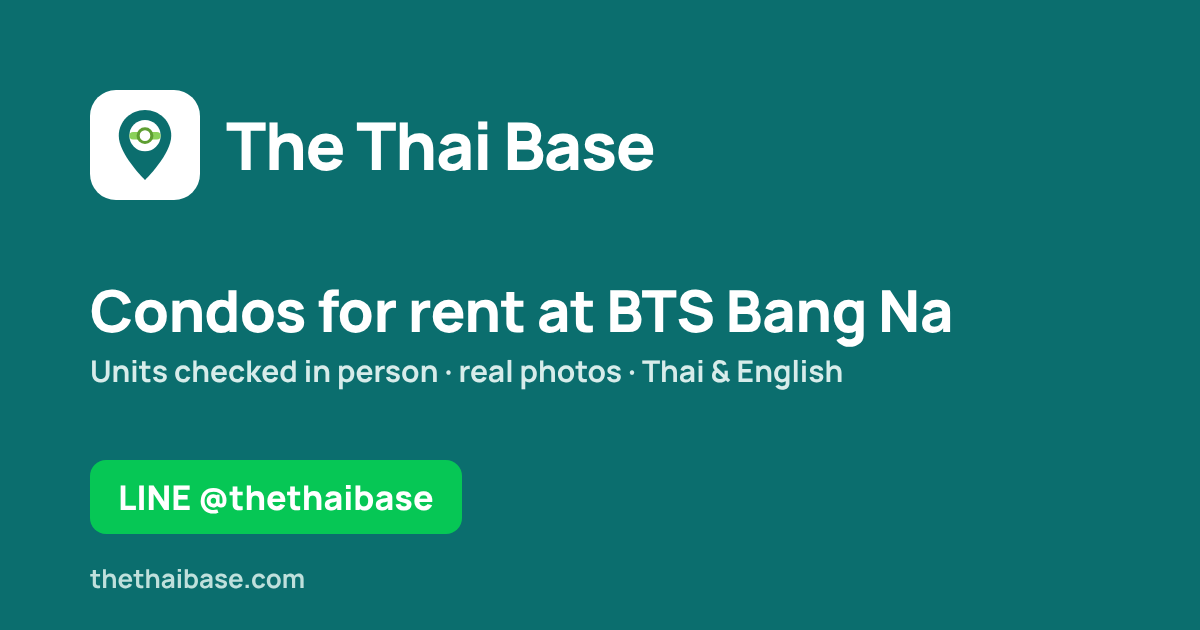
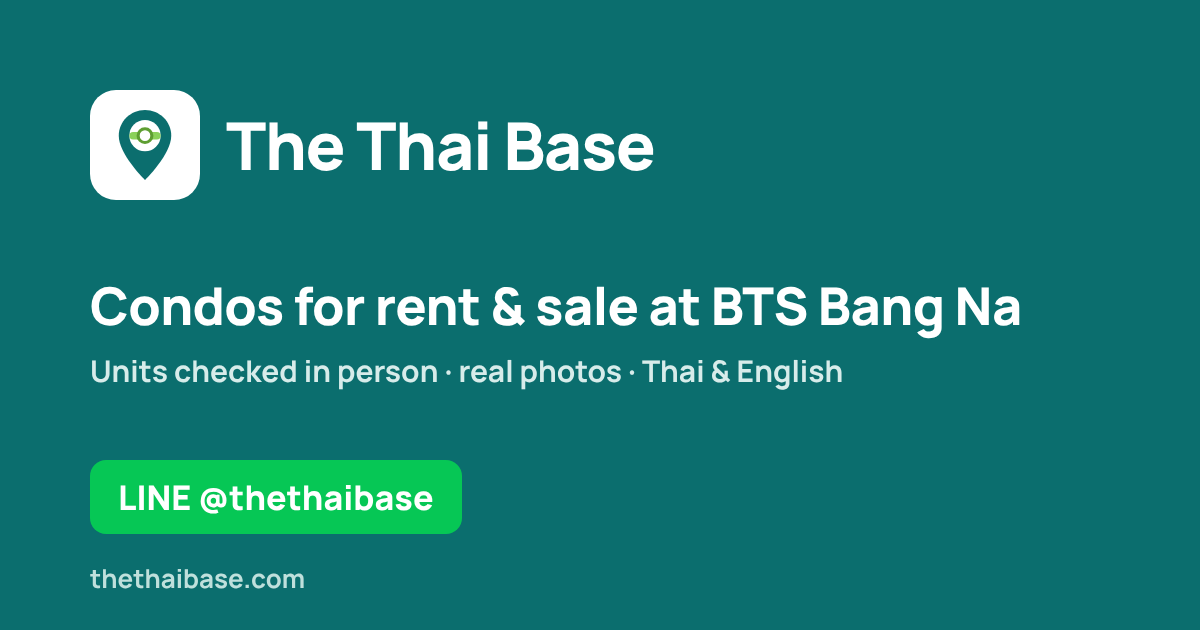
Brand: condos for rent & sale (rent-first)
Claude-Session: https://claude.ai/code/session_011JJ26dU4KDgwnbxQTtyftv

Changed region(s): [[0.0617, 0.4524, 0.8633, 0.5429]]

diff --git a/th/index.html b/th/index.html
@@ -3,13 +3,13 @@
 <head>
 <meta charset="utf-8">
 <meta name="viewport" content="width=device-width, initial-scale=1">
-<title>คอนโดให้เช่า ใกล้ BTS บางนา | The Thai Base</title>
-<meta name="description" content="คอนโดให้เช่าใกล้ BTS บางนา 4 โครงการ: The Coast Bangkok, Ideo O2, Ideo Mobi Eastgate, Ideo Mobi Eastpoint ห้องจริง รูปจริง เทียบค่าเช่า นัดชมห้องได้เลย">
+<title>คอนโดเช่า-ขาย ใกล้ BTS บางนา | The Thai Base</title>
+<meta name="description" content="คอนโดเช่า-ขาย ใกล้ BTS บางนา 4 โครงการ: The Coast Bangkok, Ideo O2, Ideo Mobi Eastgate, Ideo Mobi Eastpoint ห้องจริง รูปจริง เทียบค่าเช่า นัดชมห้องได้เลย">
 <link rel="canonical" href="https://thethaibase.com/th/">
 <link rel="alternate" hreflang="en" href="https://thethaibase.com/">
 <link rel="alternate" hreflang="th" href="https://thethaibase.com/th/">
-<meta property="og:title" content="คอนโดให้เช่า ใกล้ BTS บางนา | The Thai Base">
-<meta property="og:description" content="คอนโดให้เช่าใกล้ BTS บางนา 4 โครงการ: The Coast Bangkok, Ideo O2, Ideo Mobi Eastgate, Ideo Mobi Eastpoint ห้องจริง รูปจริง เทียบค่าเช่า นัดชมห้องได้เลย">
+<meta property="og:title" content="คอนโดเช่า-ขาย ใกล้ BTS บางนา | The Thai Base">
+<meta property="og:description" content="คอนโดเช่า-ขาย ใกล้ BTS บางนา 4 โครงการ: The Coast Bangkok, Ideo O2, Ideo Mobi Eastgate, Ideo Mobi Eastpoint ห้องจริง รูปจริง เทียบค่าเช่า นัดชมห้องได้เลย">
 <meta property="og:url" content="https://thethaibase.com/th/">
 <meta property="og:type" content="website">
 <meta property="og:site_name" content="The Thai Base">
@@ -46,7 +46,7 @@ gtag('event','generate_lead',{method:'line',unit_id:u,link_location:where,page_l
 <section class="hero">
   <div class="wrap hero-grid">
     <div>
-      <p class="eyebrow">คอนโดให้เช่า ใกล้ BTS บางนา</p>
+      <p class="eyebrow">คอนโดเช่า-ขาย ใกล้ BTS บางนา</p>
       <h1>คอนโดบางนา ตรวจห้องให้ก่อนคุณไปดู</h1>
       <p class="hero-lead">ห้องจริงใน The Coast Bangkok, Ideo O2, Ideo Mobi Sukhumvit Eastgate and Ideo Mobi Sukhumvit Eastpoint รูปจริง และเทียบค่าเช่ากับราคาทั่วไปของแต่ละโครงการ ดูแลทั้งภาษาไทยและอังกฤษ ตั้งแต่ดูห้องจนถึงวันย้ายเข้า</p>
       <form class="search-bar" action="/rent/" method="get" role="search">
@@ -214,7 +214,7 @@ gtag('event','generate_lead',{method:'line',unit_id:u,link_location:where,page_l
   <div class="wrap foot-grid">
     <div>
       <h3>The Thai Base</h3>
-      <p>คอนโดให้เช่าย่าน BTS บางนา: The Coast Bangkok, Ideo O2, Ideo Mobi Eastgate และ Ideo Mobi Eastpoint ดูแลทั้งผู้เช่าคนไทยและชาวต่างชาติ</p>
+      <p>คอนโดเช่า-ขาย ย่าน BTS บางนา: The Coast Bangkok, Ideo O2, Ideo Mobi Eastgate และ Ideo Mobi Eastpoint ดูแลทั้งผู้เช่าและผู้ซื้อ คนไทยและชาวต่างชาติ</p>
       <div class="contact-links"><a class="btn btn-ghost" href="https://line.me/R/ti/p/@thethaibase">เพิ่มเพื่อนใน LINE</a></div>
     </div>
     <div>

diff --git a/index.html b/index.html
@@ -3,13 +3,13 @@
 <head>
 <meta charset="utf-8">
 <meta name="viewport" content="width=device-width, initial-scale=1">
-<title>The Thai Base — Condos for rent at BTS Bang Na</title>
-<meta name="description" content="Condos for rent at BTS Bang Na: The Coast Bangkok, Ideo O2, Ideo Mobi Sukhumvit Eastgate and Ideo Mobi Sukhumvit Eastpoint. Units checked in person, real photos, fair-price check, viewings in Thai or English.">
+<title>The Thai Base — Condos for rent &amp; sale at BTS Bang Na</title>
+<meta name="description" content="Condos for rent &amp; sale at BTS Bang Na: The Coast Bangkok, Ideo O2, Ideo Mobi Sukhumvit Eastgate and Ideo Mobi Sukhumvit Eastpoint. Units checked in person, real photos, fair-price check, viewings in Thai or English.">
 <link rel="canonical" href="https://thethaibase.com/">
 <link rel="alternate" hreflang="en" href="https://thethaibase.com/">
 <link rel="alternate" hreflang="th" href="https://thethaibase.com/th/">
-<meta property="og:title" content="The Thai Base — Condos for rent at BTS Bang Na">
-<meta property="og:description" content="Condos for rent at BTS Bang Na: The Coast Bangkok, Ideo O2, Ideo Mobi Sukhumvit Eastgate and Ideo Mobi Sukhumvit Eastpoint. Units checked in person, real photos, fair-price check, viewings in Thai or English.">
+<meta property="og:title" content="The Thai Base — Condos for rent &amp; sale at BTS Bang Na">
+<meta property="og:description" content="Condos for rent &amp; sale at BTS Bang Na: The Coast Bangkok, Ideo O2, Ideo Mobi Sukhumvit Eastgate and Ideo Mobi Sukhumvit Eastpoint. Units checked in person, real photos, fair-price check, viewings in Thai or English.">
 <meta property="og:url" content="https://thethaibase.com/">
 <meta property="og:type" content="website">
 <meta property="og:site_name" content="The Thai Base">
@@ -46,7 +46,7 @@ gtag('event','generate_lead',{method:'line',unit_id:u,link_location:where,page_l
 <section class="hero">
   <div class="wrap hero-grid">
     <div>
-      <p class="eyebrow">Condo rentals for expats · BTS Bang Na</p>
+      <p class="eyebrow">Condos for rent &amp; sale · BTS Bang Na</p>
       <h1>Bang Na condos, checked before you see them.</h1>
       <p class="hero-lead">Real units at The Coast Bangkok, Ideo O2, Ideo Mobi Sukhumvit Eastgate and Ideo Mobi Sukhumvit Eastpoint, with real photos and a fair-price check against each building's typical rent. We help in Thai or English, from first viewing to move-in.</p>
       <form class="search-bar" action="/rent/" method="get" role="search">
@@ -221,7 +221,7 @@ gtag('event','generate_lead',{method:'line',unit_id:u,link_location:where,page_l
   <div class="wrap foot-grid">
     <div>
       <h3>The Thai Base</h3>
-      <p>Condos for rent at BTS Bang Na: The Coast Bangkok, Ideo O2, Ideo Mobi Eastgate and Ideo Mobi Eastpoint. We help Thai and foreign renters, in Thai or English.</p>
+      <p>Condos for rent &amp; sale at BTS Bang Na: The Coast Bangkok, Ideo O2, Ideo Mobi Eastgate and Ideo Mobi Eastpoint. We help Thai and foreign renters and buyers, in Thai or English.</p>
       <div class="contact-links"><a class="btn btn-ghost" href="https://line.me/R/ti/p/@thethaibase">Add us on LINE</a></div>
     </div>
     <div>

diff --git a/condos/index.html b/condos/index.html
@@ -3,11 +3,11 @@
 <head>
 <meta charset="utf-8">
 <meta name="viewport" content="width=device-width, initial-scale=1">
-<title>Condos for rent at BTS Bang Na | The Thai Base</title>
-<meta name="description" content="Condos for rent at BTS Bang Na: The Coast Bangkok, Ideo O2, Ideo Mobi Sukhumvit Eastgate and Ideo Mobi Sukhumvit Eastpoint. Facilities, unit types and typical rents.">
+<title>Condos for rent &amp; sale at BTS Bang Na | The Thai Base</title>
+<meta name="description" content="Condos for rent &amp; sale at BTS Bang Na: The Coast Bangkok, Ideo O2, Ideo Mobi Sukhumvit Eastgate and Ideo Mobi Sukhumvit Eastpoint. Facilities, unit types and typical rents.">
 <link rel="canonical" href="https://thethaibase.com/condos/">
-<meta property="og:title" content="Condos for rent at BTS Bang Na | The Thai Base">
-<meta property="og:description" content="Condos for rent at BTS Bang Na: The Coast Bangkok, Ideo O2, Ideo Mobi Sukhumvit Eastgate and Ideo Mobi Sukhumvit Eastpoint. Facilities, unit types and typical rents.">
+<meta property="og:title" content="Condos for rent &amp; sale at BTS Bang Na | The Thai Base">
+<meta property="og:description" content="Condos for rent &amp; sale at BTS Bang Na: The Coast Bangkok, Ideo O2, Ideo Mobi Sukhumvit Eastgate and Ideo Mobi Sukhumvit Eastpoint. Facilities, unit types and typical rents.">
 <meta property="og:url" content="https://thethaibase.com/condos/">
 <meta property="og:type" content="website">
 <meta property="og:site_name" content="The Thai Base">
@@ -79,7 +79,7 @@ gtag('event','generate_lead',{method:'line',unit_id:u,link_location:where,page_l
   <div class="wrap foot-grid">
     <div>
       <h3>The Thai Base</h3>
-      <p>Condos for rent at BTS Bang Na: The Coast Bangkok, Ideo O2, Ideo Mobi Eastgate and Ideo Mobi Eastpoint. We help Thai and foreign renters, in Thai or English.</p>
+      <p>Condos for rent &amp; sale at BTS Bang Na: The Coast Bangkok, Ideo O2, Ideo Mobi Eastgate and Ideo Mobi Eastpoint. We help Thai and foreign renters and buyers, in Thai or English.</p>
       <div class="contact-links"><a class="btn btn-ghost" href="https://line.me/R/ti/p/@thethaibase">Add us on LINE</a></div>
     </div>
     <div>

diff --git a/contact.html b/contact.html
@@ -4,10 +4,10 @@
 <meta charset="utf-8">
 <meta name="viewport" content="width=device-width, initial-scale=1">
 <title>Contact | The Thai Base</title>
-<meta name="description" content="Contact The Thai Base about condos for rent at BTS Bang Na.">
+<meta name="description" content="Contact The Thai Base about condos for rent or sale at BTS Bang Na.">
 <link rel="canonical" href="https://thethaibase.com/contact.html">
 <meta property="og:title" content="Contact | The Thai Base">
-<meta property="og:description" content="Contact The Thai Base about condos for rent at BTS Bang Na.">
+<meta property="og:description" content="Contact The Thai Base about condos for rent or sale at BTS Bang Na.">
 <meta property="og:url" content="https://thethaibase.com/contact.html">
 <meta property="og:type" content="website">
 <meta property="og:site_name" content="The Thai Base">
@@ -73,7 +73,7 @@ gtag('event','generate_lead',{method:'line',unit_id:u,link_location:where,page_l
   <div class="wrap foot-grid">
     <div>
       <h3>The Thai Base</h3>
-      <p>Condos for rent at BTS Bang Na: The Coast Bangkok, Ideo O2, Ideo Mobi Eastgate and Ideo Mobi Eastpoint. We help Thai and foreign renters, in Thai or English.</p>
+      <p>Condos for rent &amp; sale at BTS Bang Na: The Coast Bangkok, Ideo O2, Ideo Mobi Eastgate and Ideo Mobi Eastpoint. We help Thai and foreign renters and buyers, in Thai or English.</p>
       <div class="contact-links"><a class="btn btn-ghost" href="https://line.me/R/ti/p/@thethaibase">Add us on LINE</a></div>
     </div>
     <div>

diff --git a/th/list-your-condo.html b/th/list-your-condo.html
@@ -94,7 +94,7 @@ gtag('event','generate_lead',{method:'line',unit_id:u,link_location:where,page_l
   <div class="wrap foot-grid">
     <div>
       <h3>The Thai Base</h3>
-      <p>คอนโดให้เช่าย่าน BTS บางนา: The Coast Bangkok, Ideo O2, Ideo Mobi Eastgate และ Ideo Mobi Eastpoint ดูแลทั้งผู้เช่าคนไทยและชาวต่างชาติ</p>
+      <p>คอนโดเช่า-ขาย ย่าน BTS บางนา: The Coast Bangkok, Ideo O2, Ideo Mobi Eastgate และ Ideo Mobi Eastpoint ดูแลทั้งผู้เช่าและผู้ซื้อ คนไทยและชาวต่างชาติ</p>
       <div class="contact-links"><a class="btn btn-ghost" href="https://line.me/R/ti/p/@thethaibase">เพิ่มเพื่อนใน LINE</a></div>
     </div>
     <div>

diff --git a/condos/the-coast-bangkok.html b/condos/the-coast-bangkok.html
@@ -226,7 +226,7 @@ gtag('event','generate_lead',{method:'line',unit_id:u,link_location:where,page_l
   <div class="wrap foot-grid">
     <div>
       <h3>The Thai Base</h3>
-      <p>Condos for rent at BTS Bang Na: The Coast Bangkok, Ideo O2, Ideo Mobi Eastgate and Ideo Mobi Eastpoint. We help Thai and foreign renters, in Thai or English.</p>
+      <p>Condos for rent &amp; sale at BTS Bang Na: The Coast Bangkok, Ideo O2, Ideo Mobi Eastgate and Ideo Mobi Eastpoint. We help Thai and foreign renters and buyers, in Thai or English.</p>
       <div class="contact-links"><a class="btn btn-ghost" href="https://line.me/R/ti/p/@thethaibase">Add us on LINE</a></div>
     </div>
     <div>

diff --git a/rent/index.html b/rent/index.html
@@ -211,7 +211,7 @@ gtag('event','generate_lead',{method:'line',unit_id:u,link_location:where,page_l
   <div class="wrap foot-grid">
     <div>
       <h3>The Thai Base</h3>
-      <p>Condos for rent at BTS Bang Na: The Coast Bangkok, Ideo O2, Ideo Mobi Eastgate and Ideo Mobi Eastpoint. We help Thai and foreign renters, in Thai or English.</p>
+      <p>Condos for rent &amp; sale at BTS Bang Na: The Coast Bangkok, Ideo O2, Ideo Mobi Eastgate and Ideo Mobi Eastpoint. We help Thai and foreign renters and buyers, in Thai or English.</p>
       <div class="contact-links"><a class="btn btn-ghost" href="https://line.me/R/ti/p/@thethaibase">Add us on LINE</a></div>
     </div>
     <div>

diff --git a/404.html b/404.html
@@ -55,7 +55,7 @@ gtag('event','generate_lead',{method:'line',unit_id:u,link_location:where,page_l
   <div class="wrap foot-grid">
     <div>
       <h3>The Thai Base</h3>
-      <p>Condos for rent at BTS Bang Na: The Coast Bangkok, Ideo O2, Ideo Mobi Eastgate and Ideo Mobi Eastpoint. We help Thai and foreign renters, in Thai or English.</p>
+      <p>Condos for rent &amp; sale at BTS Bang Na: The Coast Bangkok, Ideo O2, Ideo Mobi Eastgate and Ideo Mobi Eastpoint. We help Thai and foreign renters and buyers, in Thai or English.</p>
       <div class="contact-links"><a class="btn btn-ghost" href="https://line.me/R/ti/p/@thethaibase">Add us on LINE</a></div>
     </div>
     <div>

diff --git a/bang-na.html b/bang-na.html
@@ -89,7 +89,7 @@ gtag('event','generate_lead',{method:'line',unit_id:u,link_location:where,page_l
   <div class="wrap foot-grid">
     <div>
       <h3>The Thai Base</h3>
-      <p>Condos for rent at BTS Bang Na: The Coast Bangkok, Ideo O2, Ideo Mobi Eastgate and Ideo Mobi Eastpoint. We help Thai and foreign renters, in Thai or English.</p>
+      <p>Condos for rent &amp; sale at BTS Bang Na: The Coast Bangkok, Ideo O2, Ideo Mobi Eastgate and Ideo Mobi Eastpoint. We help Thai and foreign renters and buyers, in Thai or English.</p>
       <div class="contact-links"><a class="btn btn-ghost" href="https://line.me/R/ti/p/@thethaibase">Add us on LINE</a></div>
     </div>
     <div>

diff --git a/condos/ideo-mobi-sukhumvit-eastgate.html b/condos/ideo-mobi-sukhumvit-eastgate.html
@@ -86,7 +86,7 @@ gtag('event','generate_lead',{method:'line',unit_id:u,link_location:where,page_l
   <div class="wrap foot-grid">
     <div>
       <h3>The Thai Base</h3>
-      <p>Condos for rent at BTS Bang Na: The Coast Bangkok, Ideo O2, Ideo Mobi Eastgate and Ideo Mobi Eastpoint. We help Thai and foreign renters, in Thai or English.</p>
+      <p>Condos for rent &amp; sale at BTS Bang Na: The Coast Bangkok, Ideo O2, Ideo Mobi Eastgate and Ideo Mobi Eastpoint. We help Thai and foreign renters and buyers, in Thai or English.</p>
       <div class="contact-links"><a class="btn btn-ghost" href="https://line.me/R/ti/p/@thethaibase">Add us on LINE</a></div>
     </div>
     <div>

diff --git a/condos/ideo-mobi-sukhumvit-eastpoint.html b/condos/ideo-mobi-sukhumvit-eastpoint.html
@@ -86,7 +86,7 @@ gtag('event','generate_lead',{method:'line',unit_id:u,link_location:where,page_l
   <div class="wrap foot-grid">
     <div>
       <h3>The Thai Base</h3>
-      <p>Condos for rent at BTS Bang Na: The Coast Bangkok, Ideo O2, Ideo Mobi Eastgate and Ideo Mobi Eastpoint. We help Thai and foreign renters, in Thai or English.</p>
+      <p>Condos for rent &amp; sale at BTS Bang Na: The Coast Bangkok, Ideo O2, Ideo Mobi Eastgate and Ideo Mobi Eastpoint. We help Thai and foreign renters and buyers, in Thai or English.</p>
       <div class="contact-links"><a class="btn btn-ghost" href="https://line.me/R/ti/p/@thethaibase">Add us on LINE</a></div>
     </div>
     <div>

diff --git a/condos/ideo-o2.html b/condos/ideo-o2.html
@@ -86,7 +86,7 @@ gtag('event','generate_lead',{method:'line',unit_id:u,link_location:where,page_l
   <div class="wrap foot-grid">
     <div>
       <h3>The Thai Base</h3>
-      <p>Condos for rent at BTS Bang Na: The Coast Bangkok, Ideo O2, Ideo Mobi Eastgate and Ideo Mobi Eastpoint. We help Thai and foreign renters, in Thai or English.</p>
+      <p>Condos for rent &amp; sale at BTS Bang Na: The Coast Bangkok, Ideo O2, Ideo Mobi Eastgate and Ideo Mobi Eastpoint. We help Thai and foreign renters and buyers, in Thai or English.</p>
       <div class="contact-links"><a class="btn btn-ghost" href="https://line.me/R/ti/p/@thethaibase">Add us on LINE</a></div>
     </div>
     <div>
